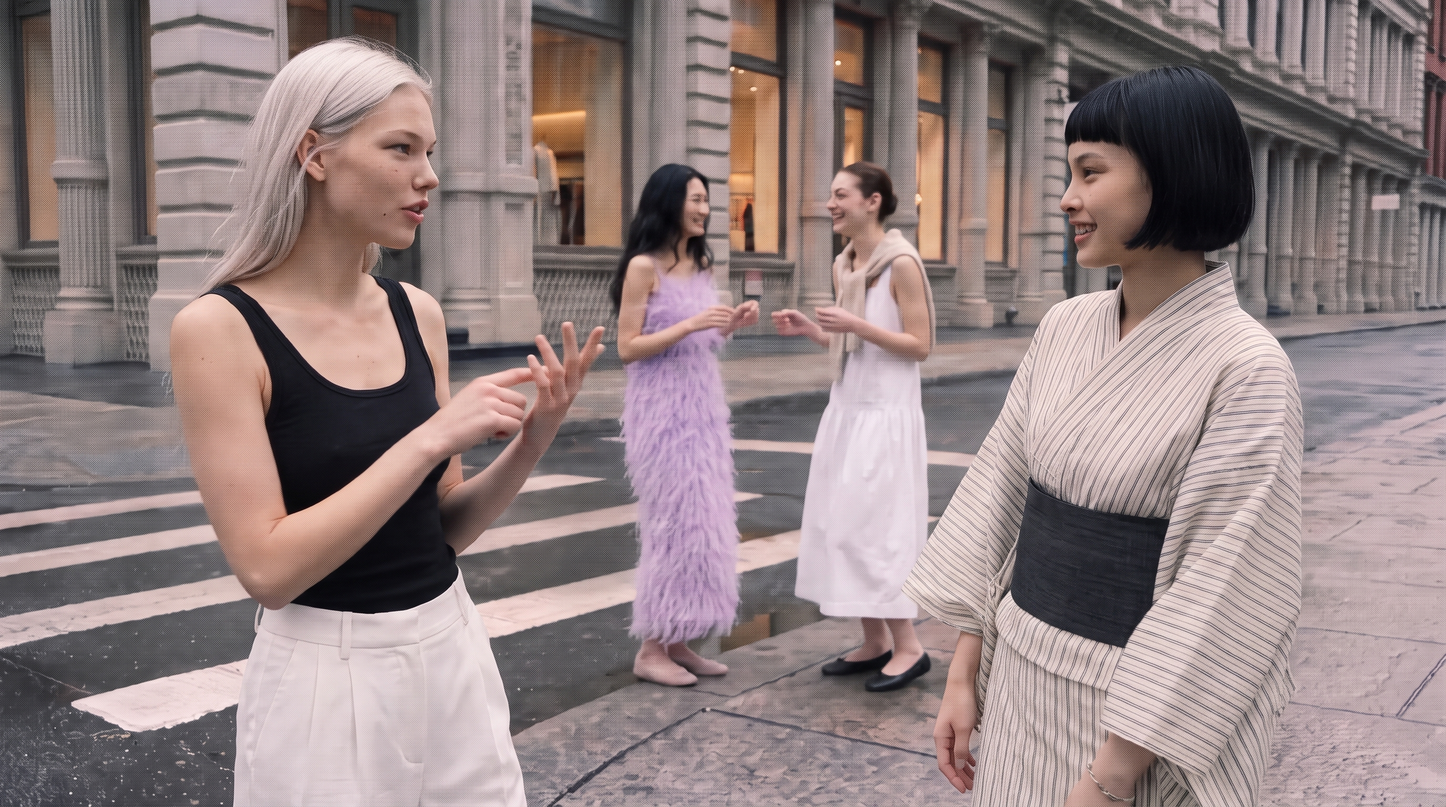
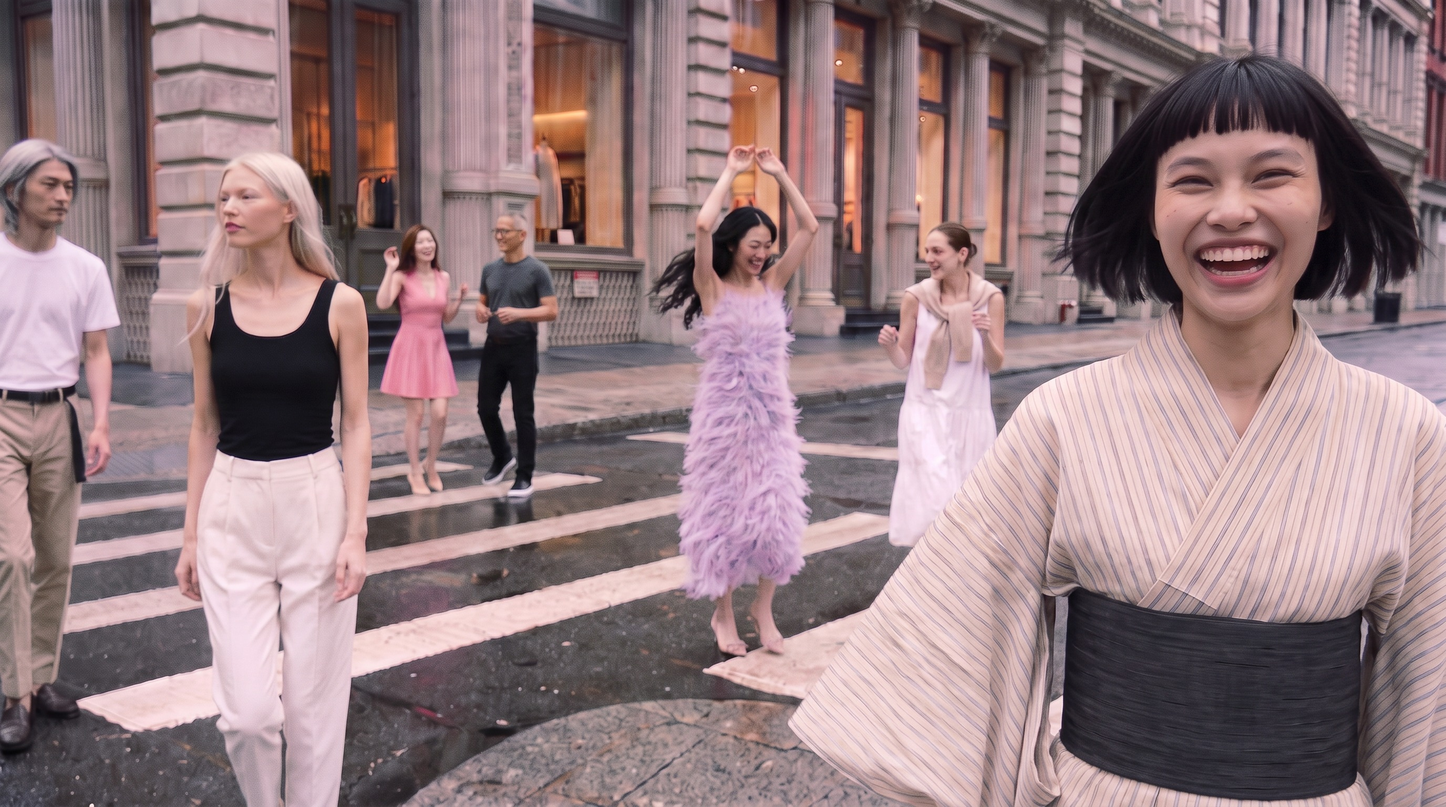
First frame K04: couple far back and apart, FEATHER/SLICKED mid-ground; plan updated
Claude-Session: https://claude.ai/code/session_01UrVJCZzQWxhwZ3AtUMdF3w

diff --git a/street-dance/draft9_plan_and_prompt.md b/street-dance/draft9_plan_and_prompt.md
@@ -1,6 +1,6 @@
 # Draft 9: plan, inputs and prompt
 
-Same script, timing, voices and ending as draft 8. Changes: two new cast members, PINKDRESS and GREYMAN, hug, chat and dance together in the middle distance; FEATHER and SLICKED dance in two very different styles, drift apart, come back together and touch each other's hair. New first frame K03.
+Same script, timing, voices and ending as draft 8. Changes: two new cast members, PINKDRESS and GREYMAN, start apart in the far background, dance and chat, and end up hugging; FEATHER and SLICKED dance in two very different styles, drift apart, come back together and touch each other's hair. New first frame K04.
 
 ## Script
 | Speaker | Line | Starts at |
@@ -15,7 +15,7 @@ Same script, timing, voices and ending as draft 8. Changes: two new cast members
 |---|---|---|---|
 | 1 | 0.0–0.6 | LEADER dances right up to the lens, silent | ~0.3 m, focus hunting |
 | 2 | 0.6–2.3 | LEADER stands still and says line 1; HERO dances at frame-left | Steps back to 0.6 m |
-| 3 | 2.5–4.8 | Pull back; LEADER dances, HERO stands still and says line 2; PINKDRESS and GREYMAN hug and sway mid-ground; FEATHER and SLICKED dance apart in very different styles | ~2 m, quick pan to HERO |
+| 3 | 2.5–4.8 | Pull back; LEADER dances, HERO stands still and says line 2; FEATHER and SLICKED dance apart mid-ground in very different styles; PINKDRESS and GREYMAN dance and chat in the far background | ~2 m, quick pan to HERO |
 | 4 | 5.0–9.8 | Group shot; HERO stands still and says the price line, counts on her fingers | Medium-wide, ~1.5 m |
 | 5 | 9.9–10.6 | SILVERMAN dances across right in front of the lens and blocks it | Frame block, autofocus hunts |
 | 6 | 10.7–13.1 | LEADER leans right into the lens, face filling the frame, and says line 4 with a sly, knowing smirk; HERO dances behind | ~0.3 m, very close |
@@ -24,7 +24,7 @@ Same script, timing, voices and ending as draft 8. Changes: two new cast members
 ## Inputs
 | # | Input | Role |
 |---|---|---|
-| 1 | street-dance/stills/K03.jpg | First frame |
+| 1 | street-dance/stills/K04.jpg | First frame |
 | 2–6 | street-dance/cast/leader, hero, feather, slicked, silverman (.jpg) | Face, hair, outfit of each person |
 | 6b | street-dance/cast/pinkdress.jpg | PINKDRESS face, hair, outfit |
 | 6c | street-dance/cast/greyman_face.jpg | GREYMAN face only; hair, glasses and outfit as written below |
@@ -40,19 +40,19 @@ Seedance 2.5 (model `doubao-seedance-2.5-face`, content filter off) via reAPI on
 ## Prompt
 【Generation Goal】 One continuous 14-second handheld 16:9 take, no cuts, that looks filmed by a friend dancing along on a city street: seven friends dancing loosely, two of them talking to the camera. Clean frame: no REC, timestamp, focus brackets, grid, border, subtitles, text.
 【Reference Asset Roles】 @image1 = the first frame: starting composition, people, outfits and street. @image2 = LEADER: face, black blunt bob with short fringe, off-white pinstripe yukata with wide charcoal obi only; not its grey background. @image3 = HERO: face, platinum blonde hair, black scoop tank, white pleated trousers, black Mary Janes only; empty hands. @image4 = FEATHER: face, long wavy black hair, lavender feather dress only. @image5 = SLICKED: face, slicked-back brown hair, white midi dress, oatmeal knit tied over shoulders only. @image6 = SILVERMAN: face, shoulder-length silver hair, white crew tee, beige chinos, black belt only. In each cast image use only the face on the left; the right panels show clothes only. @image7 = PINKDRESS: face, long wavy chestnut-brown hair, pink sleeveless V-neck fit-and-flare mini dress, pearl drop earrings, nude pumps only. @image8 = GREYMAN: face only. His look is fixed by @image1: short neatly cropped silver-grey hair close to the head, thin round light-metal glasses, plain dark grey crew-neck tee with no logo, black jeans, black belt, black sneakers with white soles; not the hair, glasses or clothes of @image8. @image9 = LOCATION: the street, buildings, crosswalk and curb only; no people, no furniture. @audio1 = LEADER's voice, saying her two lines: her timbre, accent, pitch, delivery and her pronunciation of "Higgsfield". It belongs to LEADER only. @audio2 = HERO's voice: her timbre, accent, pitch and tone, and in its second half her pronunciation of "Higgsfield" (HIGGS-feeld) and of the prices "nine dollars forty-five" and "one dollar eighty". Do not copy its other words or its timing. It belongs to HERO only.
-【Subjects and Relationships】 Exactly seven people, no one else: LEADER, HERO, FEATHER, SLICKED, SILVERMAN, PINKDRESS, GREYMAN. Each outfit belongs only to its owner. HERO stays frame-left of LEADER. PINKDRESS and GREYMAN are a couple in the middle distance, about 3 m back, staying together the whole take. FEATHER and SLICKED start 5 to 6 m back near the far curb, about 2 m apart from each other, and drift closer to the camera over the take. SILVERMAN starts at frame-left and drifts closer, ending about 2 m behind the two women.
+【Subjects and Relationships】 Exactly seven people, no one else: LEADER, HERO, FEATHER, SLICKED, SILVERMAN, PINKDRESS, GREYMAN. Each outfit belongs only to its owner. HERO stays frame-left of LEADER. PINKDRESS and GREYMAN are a couple in the far background, about 6 m back near the far curb, staying behind FEATHER and SLICKED the whole take. FEATHER and SLICKED are in the middle distance, about 3 m back, about 2 m apart from each other, and drift closer to the camera over the take. SILVERMAN starts at frame-left and drifts closer, ending about 2 m behind the two women.
 【Location】 The empty city street of @image9: pale stone cast-iron building fronts with fluted columns and warm-lit shop windows, wet dark asphalt, a white zebra crosswalk, a granite curb. No furniture.
 【Event Script】
 0.0–0.6 s: LEADER dances right up to the lens, laughing, hips swaying, one arm lifted so her wide sleeve sweeps past the lens, bob swinging; silent.
 0.6–2.3 s: LEADER stops dancing, stands still and says "Still paying Higgs-field for this?" to the lens, sly raised eyebrow; the camera steps back to collarbone-up, focus locks on her eyes. HERO soft at frame-left, dancing and watching her.
-2.5–4.8 s: the camera pulls back to about 2 m, waist-up, LEADER dancing beside HERO; a quick hand pan to HERO, who stops dancing, stands still and says "We made Higgs-field three x cheaper." toward the lens. LEADER grins at her. Behind them PINKDRESS and GREYMAN keep hugging and swaying, chatting to each other; FEATHER and SLICKED dance about 2 m apart, each in her own style; SILVERMAN dances closer, watching HERO.
+2.5–4.8 s: the camera pulls back to about 2 m, waist-up, LEADER dancing beside HERO; a quick hand pan to HERO, who stops dancing, stands still and says "We made Higgs-field three x cheaper." toward the lens. LEADER grins at her. Far behind, PINKDRESS and GREYMAN dance facing each other about a metre apart, chatting; FEATHER and SLICKED dance about 2 m apart, each in her own style; SILVERMAN dances closer, watching HERO.
 5.0–9.8 s: medium-wide at about 1.5 m, HERO stands still, not dancing, and says "I cost nine dollars forty-five on Higgs-field… and now one dollar eighty on treg.", counting on her fingers at chest height; LEADER dances beside her and reacts a beat late with a delighted look.
 9.9–10.6 s: SILVERMAN dances across right in front of the lens from left to right, arms loose and swinging, mid-groove, not noticing the camera; his white tee fills and blocks the whole frame for a moment, dark and blurred, autofocus hunts, then he is gone.
 10.7–13.1 s: he clears the frame; LEADER leans right into the lens until her face fills the frame, about 0.3 m away, eyes level with the camera, and says "Told you. It's pay per call." with a sly, knowing smirk: a closed-lip smile pulled up on one side, narrowed eyes, one eyebrow slightly raised, chin a little down, like someone who was right all along. No laugh, no open-mouth grin. HERO dancing and laughing soft behind her shoulder.
 13.1–13.5 s: still smirking, LEADER reaches toward the camera with an open palm; her hand grows until it fills the whole frame.
 13.5–14.0 s: her palm covers the entire lens. The frame is completely black and stays fully black to the last frame: no gaps of light between the fingers, no partial cover, nothing visible.
 【Camera and Light】 Fujifilm X100VI 23mm f/2, Eterna film look: low saturation, soft contrast, lifted shadows, fine grain, shallow depth of field. Held in one hand by a friend dancing along: loose bounce on the beat, small tremors, framing that drifts and corrects, a slight horizon tilt he keeps fixing, no gimbal, no smooth gliding; he moves close to whoever speaks and backs off to show the group. Soft overcast late-afternoon daylight around 6500K from a white-grey sky, no direct sun, no hard shadows; shop windows add a small warm 2700K glow in the background only. A light breeze moves hair, sleeves and feathers.
-【Performance】 Movement style for everyone, like a group of friends goofing around backstage before a show: loose, carefree, unpolished party dancing, never a routine. Typical moves: hips swaying side to side, shoulders rolling, one or both arms lifted overhead and waving loosely, wrists flicking, a lazy half spin on the spot, walking-while-dancing (strolling a few steps with a bounce, then stopping to groove), playful hand flourishes toward each other, heads tilted back laughing. Moves are big enough to read clearly but relaxed and a little sloppy, each person in their own rhythm, nobody in sync. LEADER and HERO: whenever she is not speaking, each of them dances this way. Whenever she is speaking, she stops dancing and stands still, talking like a normal conversation, with relaxed shoulders, small natural weight shifts and only her hand gestures. So LEADER is still while she speaks (0.6–2.3 s and 10.7–13.1 s) and dances the rest of the time; HERO is still while she speaks (2.5–9.8 s) and dances before 2.5 s and after 9.8 s. Irregular natural blinking; eyes make tiny tracking movements; the speaker's gaze breaks from the lens briefly, then returns; the listener looks at the speaker. Visible breathing, natural weight and momentum, heads settle after each turn. PINKDRESS and GREYMAN: arms around each other the whole take, hugging side by side, swaying and bouncing together, small turns, chatting and laughing into each other's ears, sometimes a quick look over at LEADER and HERO; they never let go and never look into the lens. FEATHER and SLICKED move in two clearly different styles. FEATHER is slow and flowing: arms floating overhead, long hair swinging, slow swirling half spins that make the feathers fly, swaying like seaweed. SLICKED is quick and bouncy: small sharp shoulder pops, little hops on the spot, tight quick steps and finger snaps, elbows close to her body. Their distance changes through the take: 0–4 s they dance about 2 m apart, each in her own style, glancing at each other; 4–8 s they drift toward each other while still dancing their own way; 8–10 s they meet, laughing and chatting: FEATHER playfully runs her fingers over SLICKED's slicked-back hair, SLICKED lifts a strand of FEATHER's long black hair and tucks it behind her ear; 10–14 s they spin apart again, still dancing, and both turn to watch LEADER. Gentle and playful, never acrobatic. SILVERMAN dances loosely the whole time: arms up, hips swaying, strolling with a bounce. Background people keep moving and drift closer through the take; their attention is on LEADER and HERO, never on the lens. They never cover a speaker's face while she talks. When someone speaks, the mouth moves only a little: lips part a few millimetres, relaxed jaw, no wide-open vowels. All real motion, no robotic gestures.
+【Performance】 Movement style for everyone, like a group of friends goofing around backstage before a show: loose, carefree, unpolished party dancing, never a routine. Typical moves: hips swaying side to side, shoulders rolling, one or both arms lifted overhead and waving loosely, wrists flicking, a lazy half spin on the spot, walking-while-dancing (strolling a few steps with a bounce, then stopping to groove), playful hand flourishes toward each other, heads tilted back laughing. Moves are big enough to read clearly but relaxed and a little sloppy, each person in their own rhythm, nobody in sync. LEADER and HERO: whenever she is not speaking, each of them dances this way. Whenever she is speaking, she stops dancing and stands still, talking like a normal conversation, with relaxed shoulders, small natural weight shifts and only her hand gestures. So LEADER is still while she speaks (0.6–2.3 s and 10.7–13.1 s) and dances the rest of the time; HERO is still while she speaks (2.5–9.8 s) and dances before 2.5 s and after 9.8 s. Irregular natural blinking; eyes make tiny tracking movements; the speaker's gaze breaks from the lens briefly, then returns; the listener looks at the speaker. Visible breathing, natural weight and momentum, heads settle after each turn. PINKDRESS and GREYMAN stay in the far background. 0–5 s: not touching, about a metre apart, facing each other, dancing loosely and chatting, she laughing with a hand raised. 5–8 s: they step closer while dancing. From 8 s: they hug side by side, arms around each other, swaying together and chatting into each other's ears, sometimes a quick look over at LEADER and HERO. They never look into the lens. FEATHER and SLICKED move in two clearly different styles. FEATHER is slow and flowing: arms floating overhead, long hair swinging, slow swirling half spins that make the feathers fly, swaying like seaweed. SLICKED is quick and bouncy: small sharp shoulder pops, little hops on the spot, tight quick steps and finger snaps, elbows close to her body. Their distance changes through the take: 0–4 s they dance about 2 m apart, each in her own style, glancing at each other; 4–8 s they drift toward each other while still dancing their own way; 8–10 s they meet, laughing and chatting: FEATHER playfully runs her fingers over SLICKED's slicked-back hair, SLICKED lifts a strand of FEATHER's long black hair and tucks it behind her ear; 10–14 s they spin apart again, still dancing, and both turn to watch LEADER. Gentle and playful, never acrobatic. SILVERMAN dances loosely the whole time: arms up, hips swaying, strolling with a bounce. Background people keep moving and drift closer through the take; their attention is on LEADER and HERO, never on the lens. They never cover a speaker's face while she talks. When someone speaks, the mouth moves only a little: lips part a few millimetres, relaxed jaw, no wide-open vowels. All real motion, no robotic gestures.
 【Sound】 LEADER speaks her two lines, at 0.6 s and 10.7 s, in the voice of @audio1. HERO speaks her two lines, at 2.5 s and 5.0 s, in the voice of @audio2. Match each voice as closely as possible; never swap or blend them. "Higgs-field" is one word, said HIGGS-feeld exactly as in @audio1 and @audio2, never "Hogsfield"; "treg" rhymes with "egg". In HERO's second line the numbers are prices in US dollars, said slowly and clearly: "nine dollars forty-five" (NINE DOL-lars FOR-tee-FIVE) and "one dollar eighty" (ONE DOL-lar AY-tee); not a time of day, not "nine forty-five a.m.", not "two" or "to". Natural and casual, a small breath between phrases. Mouths matched to every word of their own lines only; closed or still when not speaking. Nobody else speaks. Keep light street ambience, footsteps and laughter; no music. On the black frames only a soft rustle of the hand on the lens.
 【Maintain Consistency】 Same seven faces and outfits throughout; the same street as @image9; one unbroken take; clean frame.
 【Avoid】 plastic or airbrushed skin, poreless faces, perfect symmetry, studio light, direct sun, smooth gliding camera, background people looking into the lens, wild or acrobatic background dancing, choreographed routines, a hand swipe across the lens, light leaking around the hand at the end, anything visible after the frame goes black, background people standing still, robotic or evenly timed blinking, fixed gaze, fully choreographed dance routines, LEADER or HERO dancing, bopping or swaying to a beat while she speaks, LEADER laughing or grinning with open mouth on her last line, extra people, passers-by, swapped or blended voices, extra spoken words, furniture, props, magazine, laptop, readable signs or text, logos, REC indicators, subtitles, cuts, a vertical frame.
